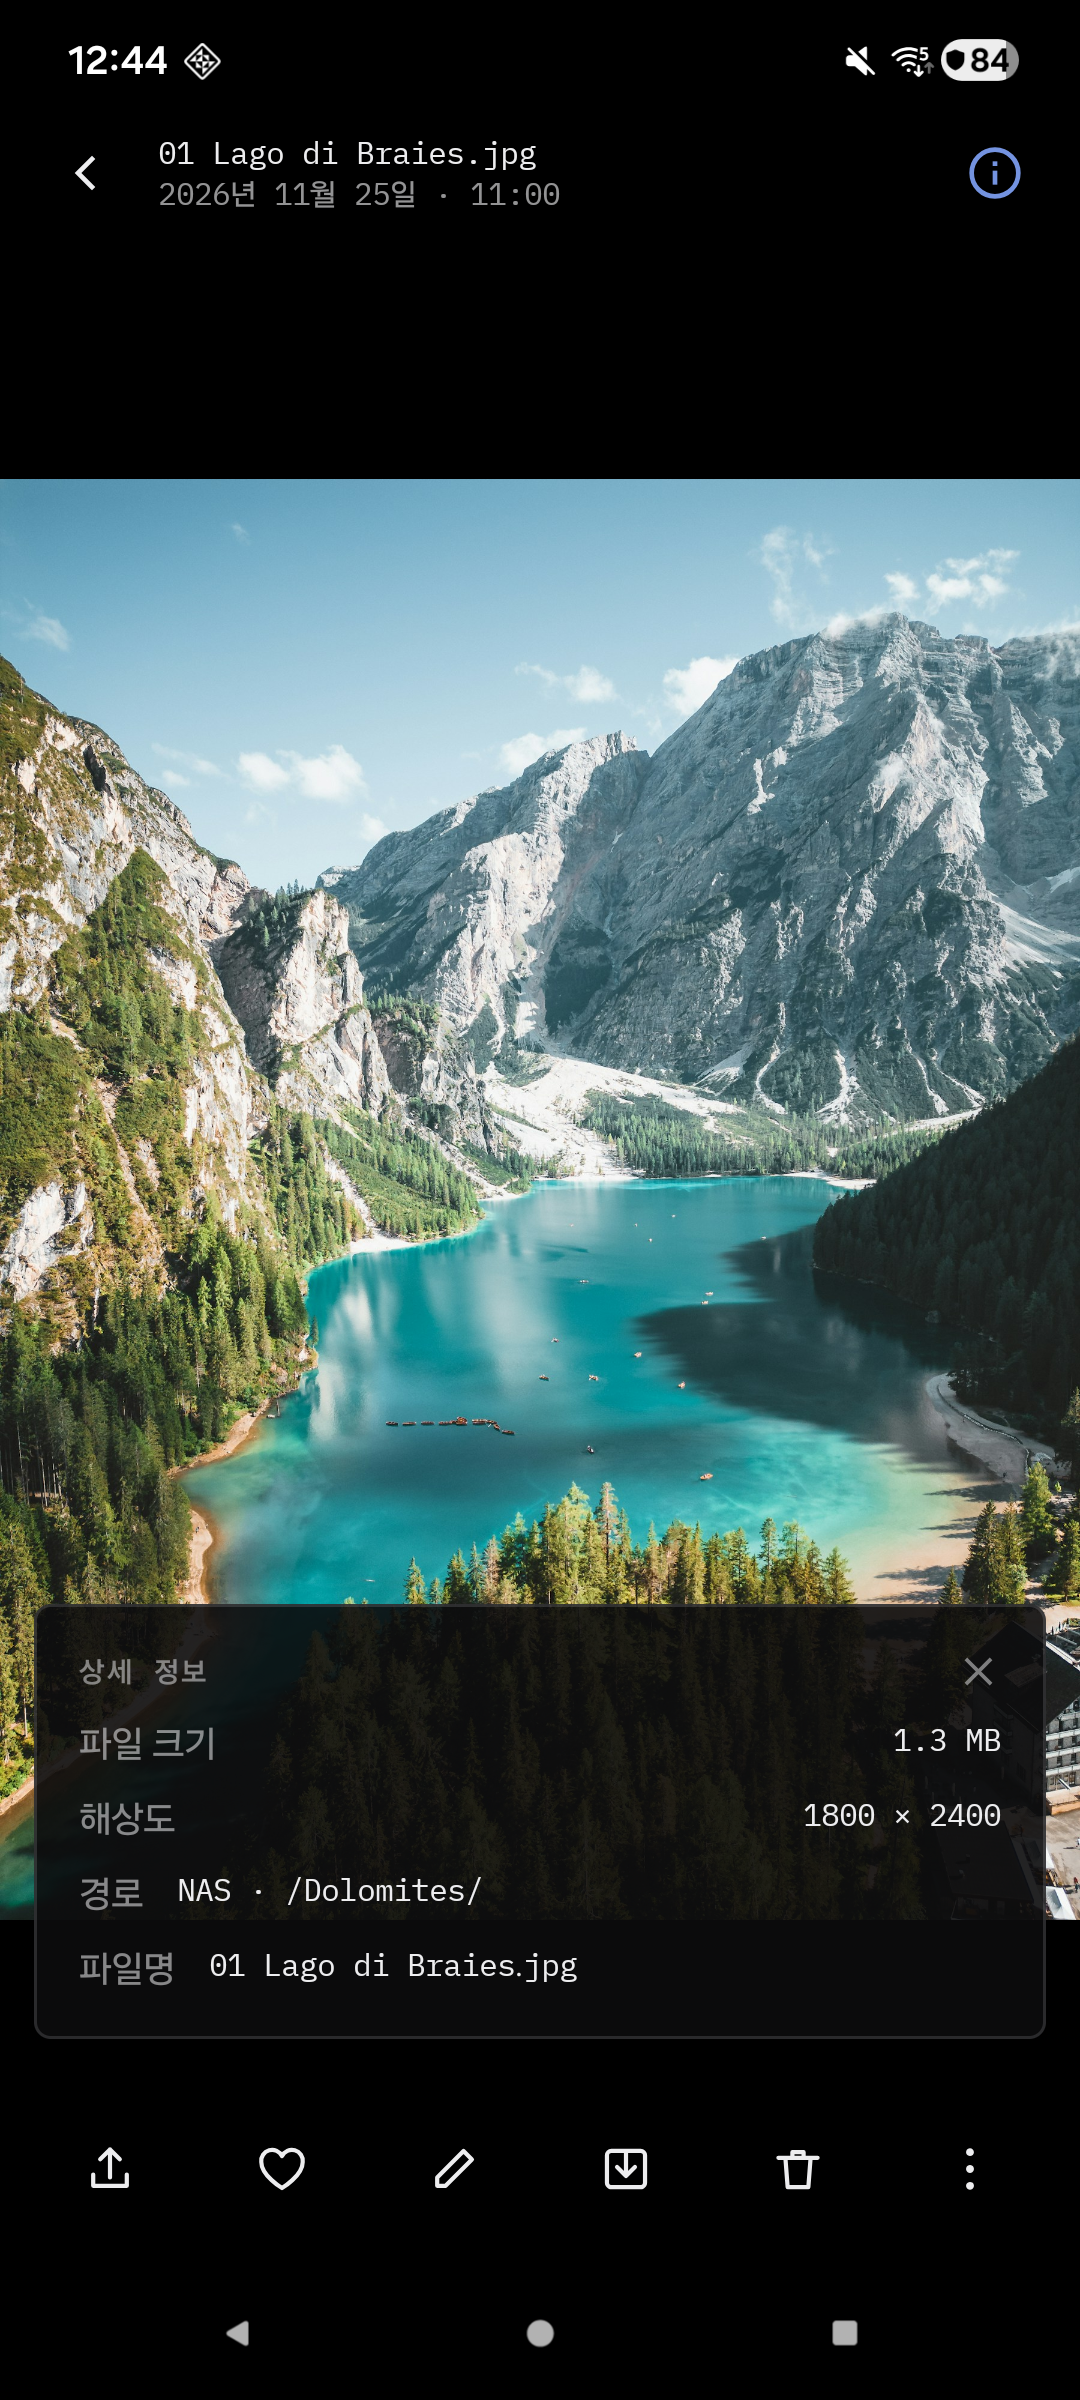
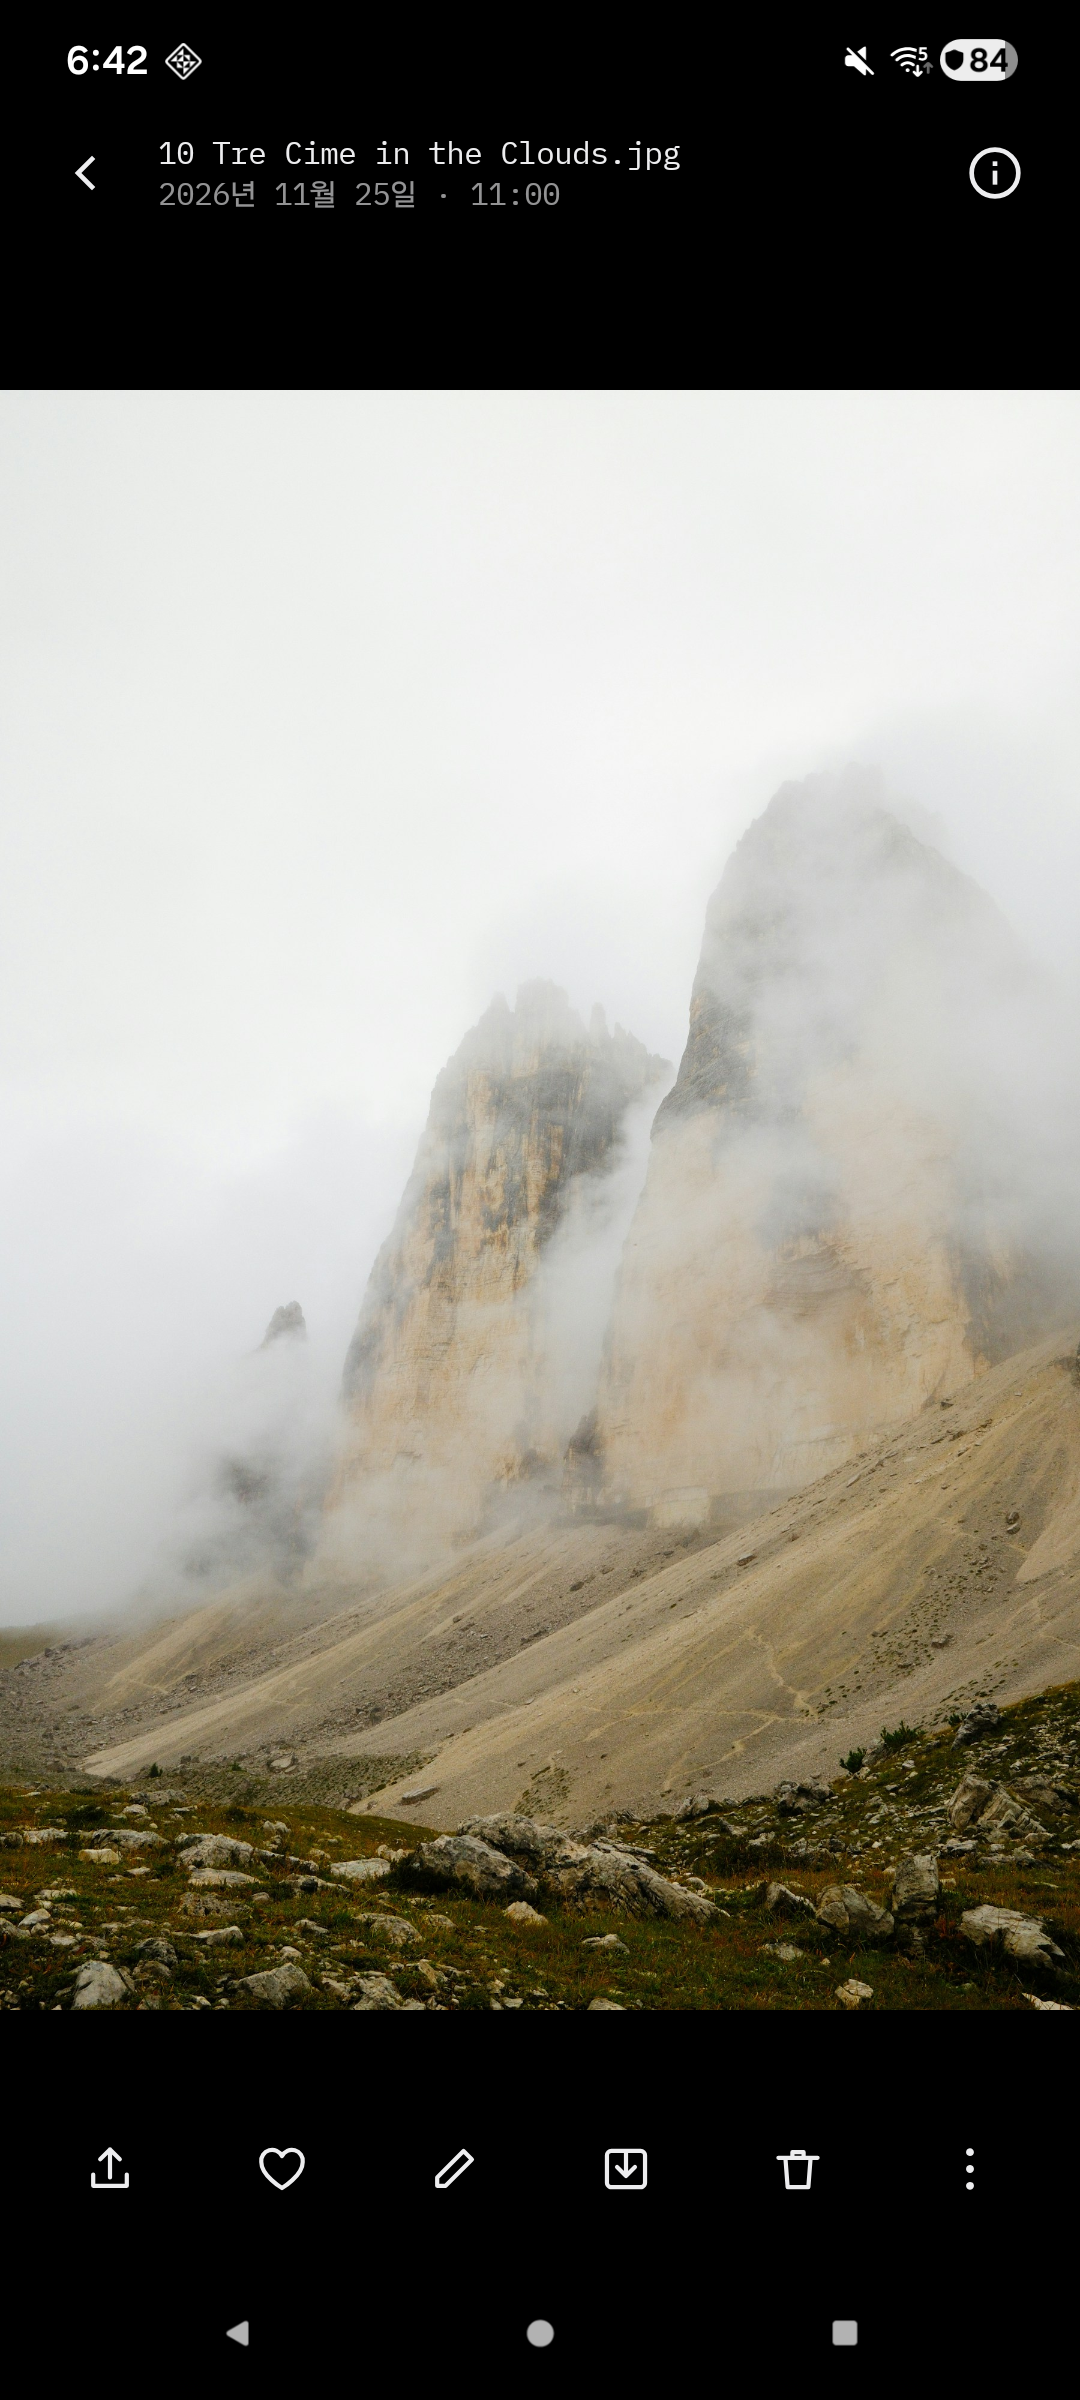
README 스크린샷을 다크 테마로 교체
- 주요 기능 표를 다크 테마의 폴더 목록과 탭, 서버 앨범, 서버 사진 보기, 사진 정보 4장으로 바꾼다.
- 동기화 설정과 동기화 기록 스크린샷은 클라우드 설명 아래로 옮긴다.

diff --git a/README.md b/README.md
@@ -14,9 +14,9 @@ WebDAV나 FTP 서버의 사진 폴더를 휴대폰 폴더처럼 보는 갤러리
 
 ## 주요 기능
 
-| 갤러리 폴더 목록 | 서버 사진 보기 | 동기화 설정 | 동기화 기록 |
+| 폴더 목록과 탭 | 서버 앨범 | 서버 사진 보기 | 사진 정보 |
 | :---: | :---: | :---: | :---: |
-| <img src="screenshots/cloud-album.png" width="200" alt="갤러리 폴더 목록에서 클라우드 아이콘이 표시된 Atlantic Coast와 Dolomites 앨범" /> | <img src="screenshots/cloud-viewer.png" width="200" alt="서버 사진과 NAS의 Dolomites 경로를 보여 주는 사진 보기 화면" /> | <img src="screenshots/folder-sync.png" width="200" alt="NAS의 Atlantic Coast 폴더에 대한 동기화 저장 위치 설정" /> | <a href="screenshots/folder-sync-history.png"><img src="screenshots/folder-sync-history.png" width="200" alt="WebDAV 폴더의 업로드 1건과 다운로드 4건이 표시된 양방향 동기화 기록" /></a> |
+| <img src="screenshots/folders-tabs.png" width="200" alt="Main과 Travel 탭, 구름 아이콘이 표시된 NAS 앨범과 휴대폰 앨범이 함께 보이는 폴더 목록" /> | <img src="screenshots/cloud-album.png" width="200" alt="NAS의 Dolomites 앨범에 있는 사진 12장의 썸네일" /> | <img src="screenshots/cloud-viewer.png" width="200" alt="NAS에서 원본을 연 Tre Cime in the Clouds 사진" /> | <img src="screenshots/cloud-viewer-info.png" width="200" alt="파일 크기, 해상도와 NAS의 Dolomites 경로를 보여 주는 사진 정보 패널" /> |
 
 ### 클라우드: 네트워크 폴더를 휴대폰 폴더처럼
 
@@ -25,6 +25,10 @@ WebDAV나 FTP 서버의 사진 폴더를 휴대폰 폴더처럼 보는 갤러리
 - **연결이 끊겨도 목록 유지:** 한 번 불러온 앨범은 서버에 연결되지 않을 때도 목록과 썸네일을 보여 줍니다.
 - **양방향 동기화:** 휴대폰에도 두고 싶은 폴더는 동기화를 켭니다. 폴더마다 저장 위치를 정하고, 양쪽의 추가·수정·삭제를 서로 맞춥니다. 동기화 기록에서 결과를 확인할 수 있습니다.
 - **휴대폰과 서버 사이 정리:** 사진을 휴대폰과 서버 폴더 사이에서 복사하거나 옮길 수 있습니다.
+
+| 동기화 설정 | 동기화 기록 |
+| :---: | :---: |
+| <img src="screenshots/folder-sync.png" width="200" alt="NAS의 Atlantic Coast 폴더에 대한 동기화 저장 위치 설정" /> | <img src="screenshots/folder-sync-history.png" width="200" alt="WebDAV 폴더의 업로드 1건과 다운로드 4건이 표시된 양방향 동기화 기록" /> |
 
 ### 탭: 폴더를 주제별로 정리
 
